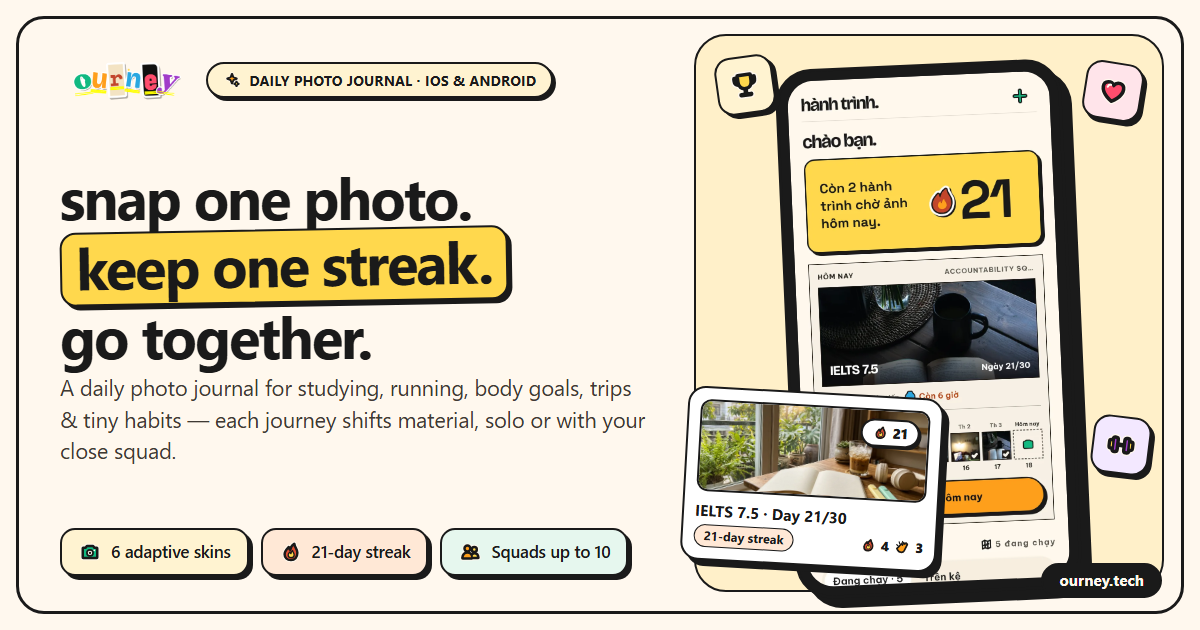
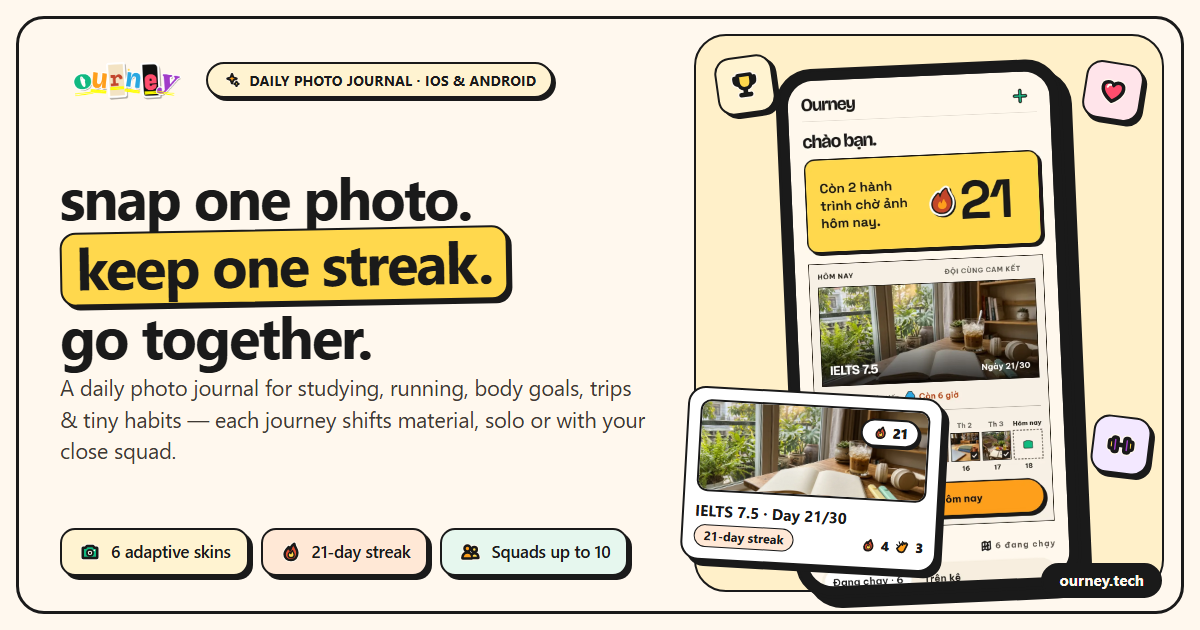
fix(landing): share cards use the current app UI

diff --git a/apps/landing/og-src/og-journey.html b/apps/landing/og-src/og-journey.html
@@ -137,12 +137,12 @@
       <div class="journey-fan">
         <div class="jf-phone jf-left">
           <div class="jf-inner">
-            <img src="../assets/screens/share-travel.webp" alt="">
+            <img src="photos/share-travel.webp" alt="Đà Lạt 7 ngày">
           </div>
         </div>
         <div class="jf-phone jf-right">
           <div class="jf-inner">
-            <img src="../assets/screens/wrapped-run.webp" alt="">
+            <img src="photos/wrapped-run.webp" alt="Hành trình đã về đích">
           </div>
         </div>
       </div>

diff --git a/apps/landing/og-src/og-default-square.html b/apps/landing/og-src/og-default-square.html
@@ -140,7 +140,7 @@
     <div class="sq-stage">
       <div class="sq-phone">
         <div class="sq-phone-inner">
-          <img src="../assets/screens/hub.webp" alt="">
+          <img src="photos/hub.webp" alt="Ourney Hub">
         </div>
       </div>
     </div>

diff --git a/apps/landing/og-src/og-default-en.html b/apps/landing/og-src/og-default-en.html
@@ -138,7 +138,7 @@
 
       <div class="og-phone">
         <div class="og-phone-inner">
-          <img src="../assets/screens/hub.webp" alt="">
+          <img src="photos/hub.webp" alt="Ourney Hub">
         </div>
       </div>
 

diff --git a/apps/landing/og-src/og-default.html b/apps/landing/og-src/og-default.html
@@ -138,7 +138,7 @@
 
       <div class="og-phone">
         <div class="og-phone-inner">
-          <img src="../assets/screens/hub.webp" alt="">
+          <img src="photos/hub.webp" alt="Ourney Hub">
         </div>
       </div>
 
